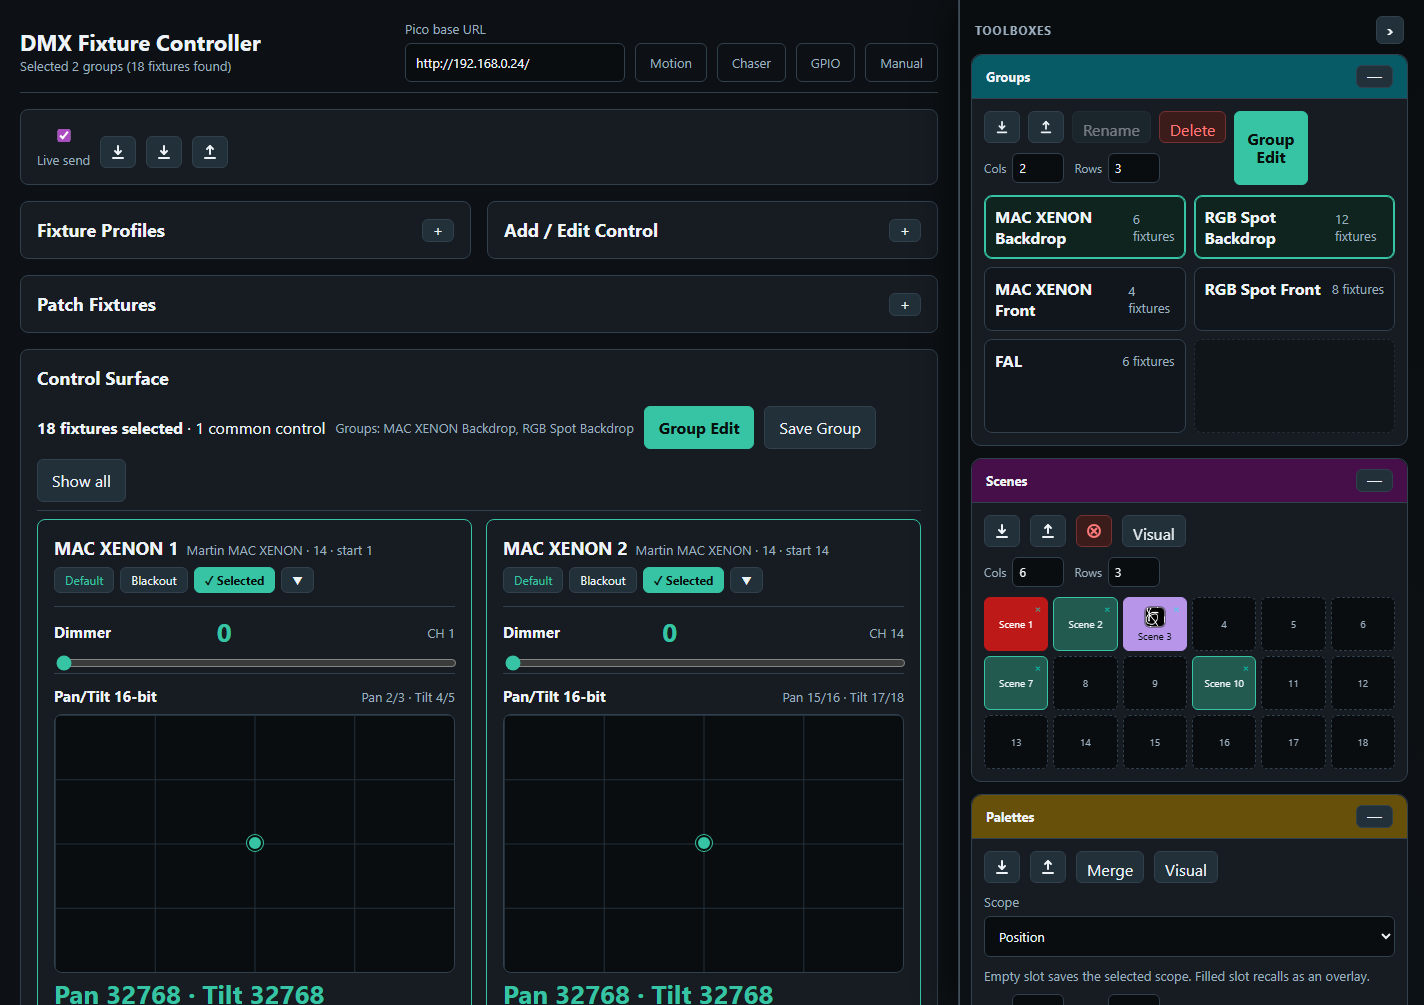
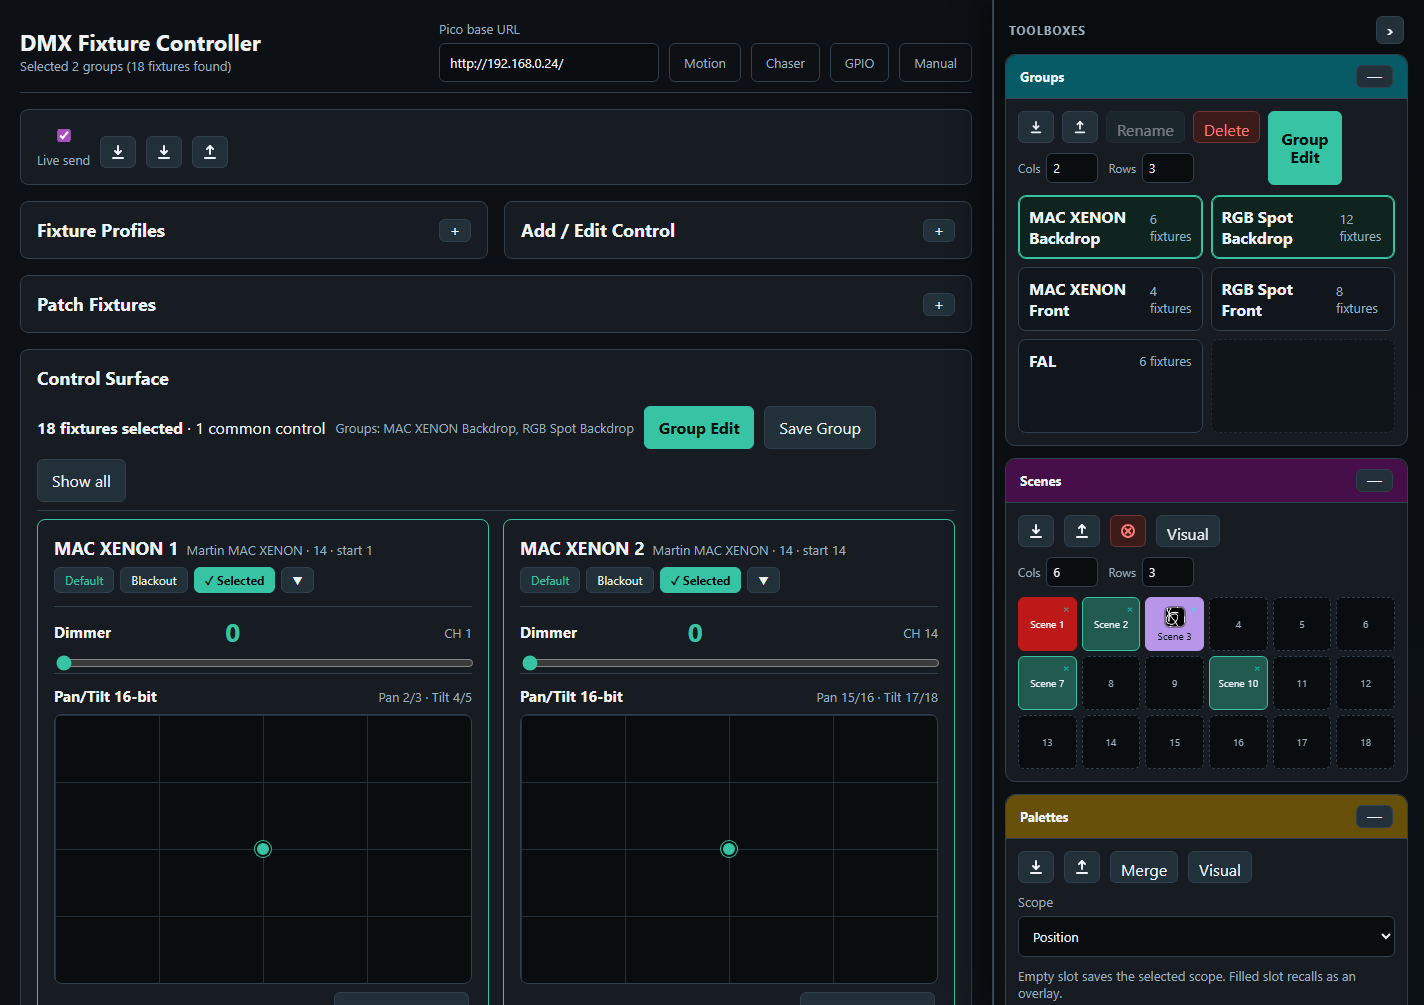
save to slot reworked

diff --git a/web/dmx_motion.html b/web/dmx_motion.html
@@ -109,7 +109,6 @@ main{max-width:none;width:100%;margin:0}
       BPM
       <input id="picoMotionBpm" class="pico-number" type="number" min="0.1" max="600" step="1" value="30">
     </label>
-    <button class="primary" id="btnPicoMotionUpload" title="Send current preset to the selected Pico slot without starting it">&#x2B06; Upload to Slot</button>
     <button id="btnPicoMotionStartSlot" title="Run the already-loaded selected Pico slot">&#x25B6; Start Slot</button>
     <button id="btnPicoMotionSetBpm">&#x266A; Set BPM</button>
     <button id="btnPicoMotionStopSlot">&#x25A1; Stop Slot</button>
@@ -1124,8 +1123,12 @@ function renderMotionSlotStrip(slots, activeMask){
       '</div>';
     d.onclick=()=>{
       if(unsupported){setPicoMotionStatus('Flash the current firmware before using slot '+s.slot,'var(--warn)');return;}
+      const wasSelected=selectedMotionSlot()===s.slot;
       document.getElementById('picoMotionSlot').value=s.slot;
       renderMotionSlotStrip(_lastSlots,_lastActiveMask);
+      if(!loaded)uploadCurrentMotionToSlot(s.slot,false);
+      else if(wasSelected)uploadCurrentMotionToSlot(s.slot,true);
+      else setPicoMotionStatus('Selected slot '+s.slot+' · click again to replace with current effect','var(--muted)');
     };
     const delBtn=d.querySelector('[data-delete-motion-slot]');
     if(delBtn){
@@ -1153,7 +1156,7 @@ async function deleteMotionSlot(slot){
     }
     if(_lastSlots){
       _lastSlots[slot]={slot:slot,loaded:false,active:false,type:0,bpm:30,target_count:0,fixture_count:0};
-      renderMotionSlotStrip(_lastSlots,_lastActiveMask & ~(1<<slot));
+      renderMotionSlotStrip(_lastSlots,_lastActiveMask);
     }
     pollPicoMotionStatus();
   }catch(e){
@@ -1217,13 +1220,14 @@ async function restoreAllMotionSlots(){
   pollPicoMotionStatus();
 }
 
-document.getElementById('btnPicoMotionUpload').onclick=async()=>{
+async function uploadCurrentMotionToSlot(slot,confirmOverwrite){
   if(motionFixtures.filter(m=>m.enabled&&motionControlKey(m.control)===selectedMotionTargetKey).length===0){setPicoMotionStatus('No enabled targets for upload','var(--warn)');return;}
+  document.getElementById('picoMotionSlot').value=slot;
   if(!ensureMotionSlotSupported())return;
   stopMotion(); // stop browser motion so it doesn't fight Pico
   const root=baseUrlEl.value.replace(/\/+$/,'');
   if(!root){setPicoMotionStatus('Set Pico base URL first','var(--warn)');return;}
-  const slot=parseInt(document.getElementById('picoMotionSlot').value)||0;
+  if(confirmOverwrite&&!confirm('Replace Pico motion slot '+slot+' with the current effect?'))return;
   const body=serializeMotionForPico();
   setPicoMotionStatus('Uploading to slot '+slot+'…','var(--warn)');
   try{
@@ -1234,7 +1238,7 @@ document.getElementById('btnPicoMotionUpload').onclick=async()=>{
     setPicoMotionStatus('Uploaded current preset to slot '+slot,'var(--accent)');
     pollPicoMotionStatus();
   }catch(e){setPicoMotionStatus('Error: '+e.message,'var(--bad)');}
-};
+}
 document.getElementById('btnPicoMotionRestoreAll').onclick=restoreAllMotionSlots;
 
 document.getElementById('btnPicoMotionStartSlot').onclick=async()=>{

diff --git a/web/dmx_chaser.html b/web/dmx_chaser.html
@@ -233,7 +233,6 @@ input[type=color]{width:44px;height:36px;padding:2px;background:#0a0d10;border:1
         <option value="reverse">Reverse</option>
       </select>
     </label>
-    <button class="primary" id="btnPicoUpload" title="Send current chase to the selected Pico slot without starting it">&#x2B06; Upload to Slot</button>
     <button id="btnPicoPlaySlot" title="Run the already-loaded selected Pico slot">&#x25B6; Play Slot</button>
     <button id="btnPicoPauseSlot">Pause</button>
     <button id="btnPicoResumeSlot">Resume</button>
@@ -2535,8 +2534,12 @@ function renderChaserSlotStrip(slots, activeMask) {
       '</div>';
     d.onclick = () => {
       if(unsupported){setPicoStatus('Flash the current firmware before using slot '+s.slot,'var(--warn)');return;}
+      const wasSelected=selectedChaserSlot()===s.slot;
       document.getElementById('picoSlot').value = s.slot;
       renderChaserSlotStrip(slots, activeMask);
+      if(!loaded)uploadCurrentChaseToSlot(s.slot,false);
+      else if(wasSelected)uploadCurrentChaseToSlot(s.slot,true);
+      else setPicoStatus('Selected slot '+s.slot+' · click again to replace with current chase','var(--muted)');
     };
     const delBtn = d.querySelector('[data-delete-chaser-slot]');
     if(delBtn){
@@ -2630,14 +2633,15 @@ async function restoreAllChaserSlots(){
   pollPicoStatus();
 }
 
-document.getElementById('btnPicoUpload').onclick=async()=>{
+async function uploadCurrentChaseToSlot(slot,confirmOverwrite){
   if(steps.length===0){setPicoStatus('No steps to upload','var(--warn)');return;}
   if(steps.length>CHASER_MAX_STEPS){setPicoStatus('Chaser slots support max '+CHASER_MAX_STEPS+' steps','var(--bad)');return;}
+  document.getElementById('picoSlot').value=slot;
   if(!ensureChaserSlotSupported())return;
   stopPlayback(); // stop browser playback so it doesn't fight Pico
   const root=baseUrlEl.value.replace(/\/+$/,'');
   if(!root){setPicoStatus('Set Pico base URL first','var(--warn)');return;}
-  const slot=parseInt(document.getElementById('picoSlot').value)||0;
+  if(confirmOverwrite&&!confirm('Replace Pico chaser slot '+slot+' with the current chase?'))return;
   const body=serializeChaserForPico();
   setPicoStatus('Uploading to slot '+slot+'…','var(--warn)');
   try{
@@ -2648,7 +2652,7 @@ document.getElementById('btnPicoUpload').onclick=async()=>{
     setPicoStatus('Uploaded current chase to slot '+slot,'var(--accent)');
     pollPicoStatus();
   }catch(e){setPicoStatus('Error: '+e.message,'var(--bad)');}
-};
+}
 document.getElementById('btnPicoRestoreAll').onclick=restoreAllChaserSlots;
 
 document.getElementById('btnPicoPlaySlot').onclick=async()=>{

diff --git a/docs/user-manual-print.html b/docs/user-manual-print.html
@@ -334,7 +334,7 @@ strong { color: #ffffff; }
 <li>Set step duration and fade in <strong>Edit Step</strong>.</li>
 <li>Store the chase in the <strong>Chases</strong> toolbox if you want quick recall.</li>
 <li>Test timing in <strong>Browser Playback</strong>.</li>
-<li>Upload the current chase to a Pico slot.</li>
+<li>Click an empty Pico slot to upload the current chase to that slot.</li>
 <li>Play the slot from the Pico.</li>
 </ol>
 <h3 id="toolbox-sidebar">Toolbox Sidebar</h3>
@@ -464,7 +464,7 @@ strong { color: #ffffff; }
 </ol>
 <p>If Chaser reports that no Fixture Controller values are available, open the Fixture Controller page and move a control or recall a scene first. Capture only reads controls that are selected as participating controls, so unselected controls are ignored.</p>
 <h3 id="pico-slot-playback">Pico Slot Playback</h3>
-<p>Chasers can be uploaded to 32 Pico slots. Each slot can run on the Pico without the browser staying open.</p>
+<p>Chasers can be uploaded to 32 Pico slots. Each slot can run on the Pico without the browser staying open. The Pico slot strip is the upload target: click an empty slot to upload the current chase. Click a loaded slot once to select it for play, pause, resume, speed, or stop. Click the selected loaded slot again if you want to replace it with the current chase; the page asks before overwriting.</p>
 <p><img src="screenshots/chaser-pico-playback.png" alt="Chaser Pico Playback"></p>
 <p>Supported playback options:</p>
 <ul>
@@ -502,6 +502,9 @@ strong { color: #ffffff; }
 <ul>
 <li>If the target is pan/tilt, the uploaded slot stores pan and tilt channel addresses and plays two-axis effects.</li>
 <li>If the target is scalar, the uploaded slot stores that one control&#39;s DMX channel address and plays one-axis effects such as sine or pulse.</li>
+<li>Click an empty Pico slot to upload the current effect to that slot.</li>
+<li>Click a loaded slot once to select it for start, stop, or BPM changes.</li>
+<li>Click the selected loaded slot again to replace it with the current effect; the page asks before overwriting.</li>
 <li>Slots store channel mappings, BPM, amplitude, spread, effect type, and target phase. They do not store fixed center values.</li>
 <li>The center value is read from the Pico base buffer during playback. This means a scene recall or live controller change can define the center before the slot starts.</li>
 <li>Up to 64 Motion FX slots can be loaded on the Pico.</li>
@@ -515,7 +518,7 @@ strong { color: #ffffff; }
 <li>Select one <strong>Effect target</strong>.</li>
 <li>Set BPM, effect shape, amplitude, and spread in the <strong>Effect Parameters</strong> toolbox.</li>
 <li>Optionally recall a palette from the <strong>Palettes</strong> toolbox to set the center for the selected target.</li>
-<li>Upload the effect to a Pico slot and start the slot when you want autonomous playback without browser timing jitter.</li>
+<li>Click an empty Pico slot to upload the effect, then start the slot when you want autonomous playback without browser timing jitter.</li>
 <li>Use browser playback from the <strong>Effect Parameters</strong> toolbox when you want quick live testing before uploading.</li>
 </ol>
 <p>The Motion FX page also has a read-only scene toolbox. Clicking a scene sends the position to the Pico and updates the effect center.</p>

diff --git a/docs/user-manual.html b/docs/user-manual.html
@@ -334,7 +334,7 @@ strong { color: #ffffff; }
 <li>Set step duration and fade in <strong>Edit Step</strong>.</li>
 <li>Store the chase in the <strong>Chases</strong> toolbox if you want quick recall.</li>
 <li>Test timing in <strong>Browser Playback</strong>.</li>
-<li>Upload the current chase to a Pico slot.</li>
+<li>Click an empty Pico slot to upload the current chase to that slot.</li>
 <li>Play the slot from the Pico.</li>
 </ol>
 <h3 id="toolbox-sidebar">Toolbox Sidebar</h3>
@@ -464,7 +464,7 @@ strong { color: #ffffff; }
 </ol>
 <p>If Chaser reports that no Fixture Controller values are available, open the Fixture Controller page and move a control or recall a scene first. Capture only reads controls that are selected as participating controls, so unselected controls are ignored.</p>
 <h3 id="pico-slot-playback">Pico Slot Playback</h3>
-<p>Chasers can be uploaded to 32 Pico slots. Each slot can run on the Pico without the browser staying open.</p>
+<p>Chasers can be uploaded to 32 Pico slots. Each slot can run on the Pico without the browser staying open. The Pico slot strip is the upload target: click an empty slot to upload the current chase. Click a loaded slot once to select it for play, pause, resume, speed, or stop. Click the selected loaded slot again if you want to replace it with the current chase; the page asks before overwriting.</p>
 <p><img src="screenshots/chaser-pico-playback.png" alt="Chaser Pico Playback"></p>
 <p>Supported playback options:</p>
 <ul>
@@ -502,6 +502,9 @@ strong { color: #ffffff; }
 <ul>
 <li>If the target is pan/tilt, the uploaded slot stores pan and tilt channel addresses and plays two-axis effects.</li>
 <li>If the target is scalar, the uploaded slot stores that one control&#39;s DMX channel address and plays one-axis effects such as sine or pulse.</li>
+<li>Click an empty Pico slot to upload the current effect to that slot.</li>
+<li>Click a loaded slot once to select it for start, stop, or BPM changes.</li>
+<li>Click the selected loaded slot again to replace it with the current effect; the page asks before overwriting.</li>
 <li>Slots store channel mappings, BPM, amplitude, spread, effect type, and target phase. They do not store fixed center values.</li>
 <li>The center value is read from the Pico base buffer during playback. This means a scene recall or live controller change can define the center before the slot starts.</li>
 <li>Up to 64 Motion FX slots can be loaded on the Pico.</li>
@@ -515,7 +518,7 @@ strong { color: #ffffff; }
 <li>Select one <strong>Effect target</strong>.</li>
 <li>Set BPM, effect shape, amplitude, and spread in the <strong>Effect Parameters</strong> toolbox.</li>
 <li>Optionally recall a palette from the <strong>Palettes</strong> toolbox to set the center for the selected target.</li>
-<li>Upload the effect to a Pico slot and start the slot when you want autonomous playback without browser timing jitter.</li>
+<li>Click an empty Pico slot to upload the effect, then start the slot when you want autonomous playback without browser timing jitter.</li>
 <li>Use browser playback from the <strong>Effect Parameters</strong> toolbox when you want quick live testing before uploading.</li>
 </ol>
 <p>The Motion FX page also has a read-only scene toolbox. Clicking a scene sends the position to the Pico and updates the effect center.</p>

diff --git a/docs/user-manual.md b/docs/user-manual.md
@@ -292,7 +292,7 @@ The Chaser screenshot is captured with the important boxes visible on purpose: *
 4. Set step duration and fade in **Edit Step**.
 5. Store the chase in the **Chases** toolbox if you want quick recall.
 6. Test timing in **Browser Playback**.
-7. Upload the current chase to a Pico slot.
+7. Click an empty Pico slot to upload the current chase to that slot.
 8. Play the slot from the Pico.
 
 ### Toolbox Sidebar
@@ -447,7 +447,7 @@ If Chaser reports that no Fixture Controller values are available, open the Fixt
 
 ### Pico Slot Playback
 
-Chasers can be uploaded to 32 Pico slots. Each slot can run on the Pico without the browser staying open.
+Chasers can be uploaded to 32 Pico slots. Each slot can run on the Pico without the browser staying open. The Pico slot strip is the upload target: click an empty slot to upload the current chase. Click a loaded slot once to select it for play, pause, resume, speed, or stop. Click the selected loaded slot again if you want to replace it with the current chase; the page asks before overwriting.
 
 ![Chaser Pico Playback](screenshots/chaser-pico-playback.png)
 
@@ -498,6 +498,9 @@ The Pico Motion slot upload now uses the same selected **Effect target** as the 
 
 - If the target is pan/tilt, the uploaded slot stores pan and tilt channel addresses and plays two-axis effects.
 - If the target is scalar, the uploaded slot stores that one control's DMX channel address and plays one-axis effects such as sine or pulse.
+- Click an empty Pico slot to upload the current effect to that slot.
+- Click a loaded slot once to select it for start, stop, or BPM changes.
+- Click the selected loaded slot again to replace it with the current effect; the page asks before overwriting.
 - Slots store channel mappings, BPM, amplitude, spread, effect type, and target phase. They do not store fixed center values.
 - The center value is read from the Pico base buffer during playback. This means a scene recall or live controller change can define the center before the slot starts.
 - Up to 64 Motion FX slots can be loaded on the Pico.
@@ -512,7 +515,7 @@ For scalar targets, set the current value first, then upload/start the slot. For
 4. Select one **Effect target**.
 5. Set BPM, effect shape, amplitude, and spread in the **Effect Parameters** toolbox.
 6. Optionally recall a palette from the **Palettes** toolbox to set the center for the selected target.
-7. Upload the effect to a Pico slot and start the slot when you want autonomous playback without browser timing jitter.
+7. Click an empty Pico slot to upload the effect, then start the slot when you want autonomous playback without browser timing jitter.
 8. Use browser playback from the **Effect Parameters** toolbox when you want quick live testing before uploading.
 
 The Motion FX page also has a read-only scene toolbox. Clicking a scene sends the position to the Pico and updates the effect center.

diff --git a/README.md b/README.md
@@ -239,7 +239,7 @@ The playback pages separate browser editing from the autonomous Pico slot memory
 
 - **Chaser Chases toolbox** — stores reusable editable chases on the XAMPP server. Recalling a chase loads its steps, selects Step 1, rebuilds Participating Controls and Edit Step, and a newly opened Chaser page starts with no working steps until a chase is recalled or created.
 - **Motion Save Preset / Load Preset** — stores and restores the editable Motion FX page setup on the XAMPP server JSON file.
-- **Upload to Slot** — sends the current editable chase or Motion FX preset to the selected Pico slot and mirrors that slot payload on the XAMPP server. It does not start playback.
+- **Pico slot click upload** — click an empty Pico slot to send the current editable chase or Motion FX preset to that slot and mirror the payload on the XAMPP server. Click a loaded slot once to select it for playback controls; click the selected loaded slot again to replace it after confirmation.
 - **Play Slot / Start Slot** — starts the already-loaded slot on the Pico.
 - **Restore Saved Slots to Pico** — re-sends the saved server-side slot payloads to the Pico after reboot or firmware upload.
 - **Delete slot** — loaded slots show a small `×` button in the top-right corner. It deletes the mirrored XAMPP slot payload and calls the Pico clear endpoint for that slot when the Pico base URL is set.